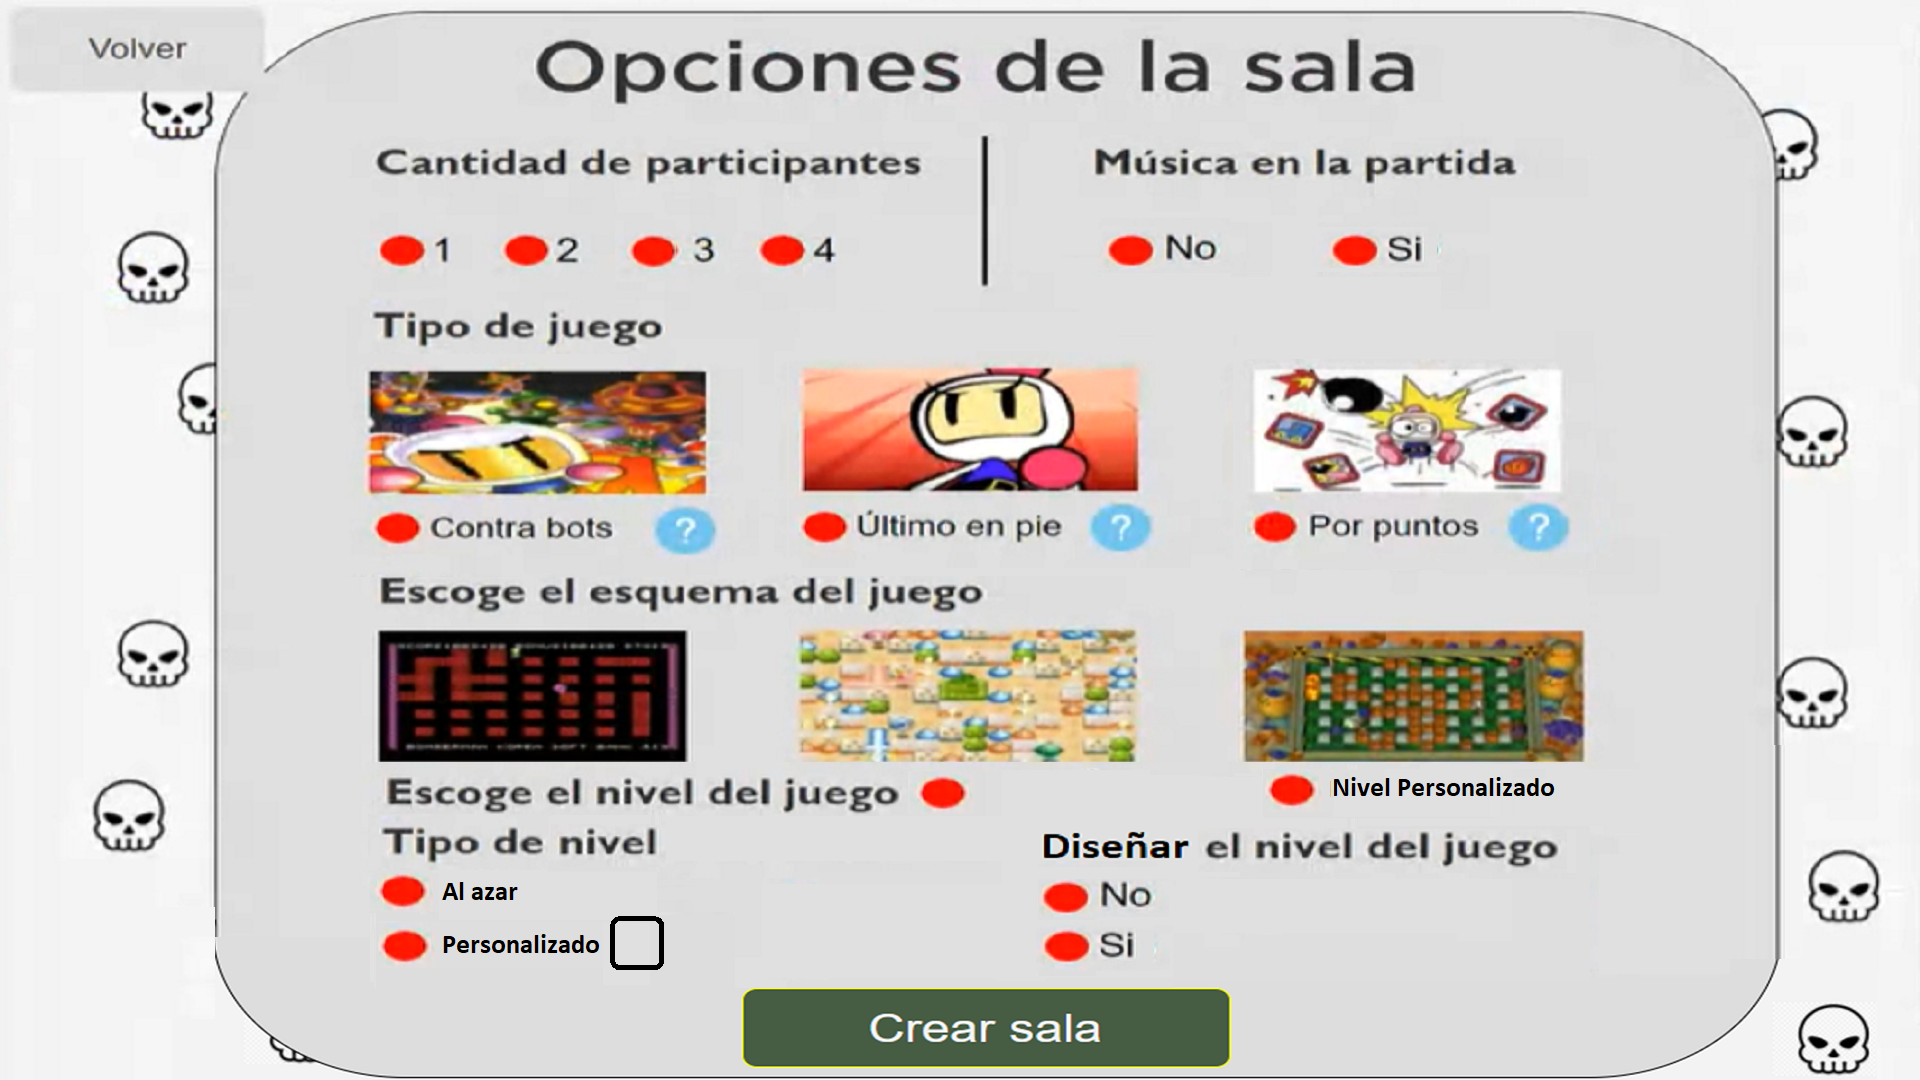
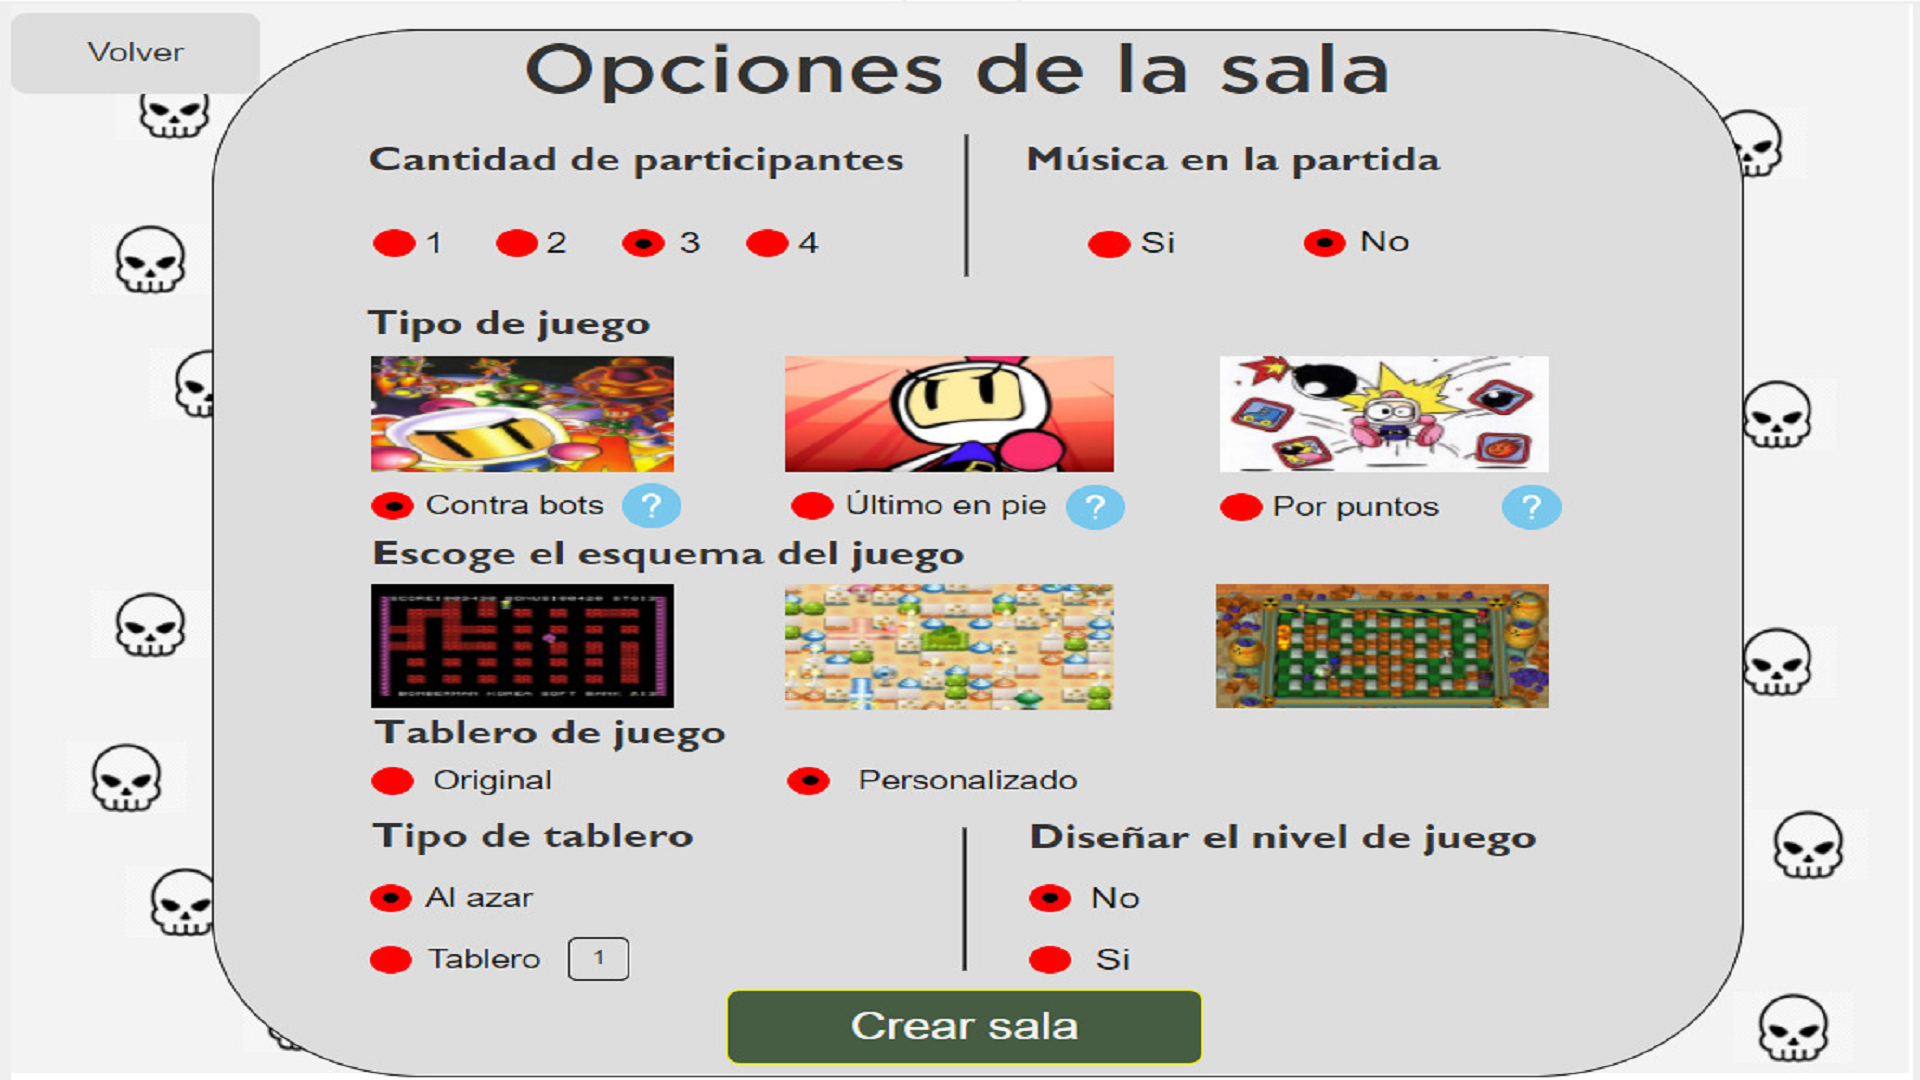
cambios fix sprites

diff --git a/game.html b/game.html
@@ -178,10 +178,11 @@ class Scene1 extends Phaser.Scene {
 
      //INTERNET
 
-/*
+
 
     this.load.image('bg', 'https://i.ibb.co/tz3L9Bn/jugador.png');
    this.load.image('enemigo',  'https://i.ibb.co/tsc83Qn/enemigo.png');
+     this.load.image('enemigoquemado',  'https://i.ibb.co/wcjcPBY/enemigoquemado.png');
    this.load.image('ship',  'https://i.ibb.co/tz3L9Bn/jugador.png');
       this.load.image('ship2',  'https://i.ibb.co/HVtxqyJ/jugador2.png');
          this.load.image('ship3',  'https://i.ibb.co/C7yH7ft/jugador3.png');
@@ -240,12 +241,16 @@ this.load.image('pisor2', 'https://i.ibb.co/BT4bwd5/pisor2.png');
            this.load.image('menupause', 'https://i.ibb.co/YRqsf11/menupause.png');
              this.load.image('menupause2', 'https://i.ibb.co/bHXM7y9/menupause2.png');
           this.load.image('menupause3', 'https://i.ibb.co/p0cq1sK/menupause3.png');
+
+          this.load.image('menupause2end', 'https://i.ibb.co/hWr7ybj/menupause2end.png');
+          this.load.image('menupause3end', 'https://i.ibb.co/PCLGvQh/menupause3end.png');
+
             this.load.image('votacionmenu', 'https://i.ibb.co/3Ycf03R/votacionmenu.png');
 
                 this.load.image('votacionmenu2', 'https://i.ibb.co/swGDZCC/votacionmenu2-P.png');
 
                     this.load.image('votacionmenu3', 'https://i.ibb.co/BqSYKHW/votacionmenu3-P.png');
-   this.load.image('mensajeFinPartida',  'https://i.ibb.co/RyjdBLK/mensaje-Fin-Partida.png');
+   this.load.image('mensajeFinPartida',  'https://i.ibb.co/0MBjWjV/mensaje-Fin-Partida.png');
 
 
              this.load.image('votacionmenuP1', 'https://i.ibb.co/GWbjLYv/votacionmenu-P1.png');
@@ -282,9 +287,9 @@ this.load.image('pisor2', 'https://i.ibb.co/BT4bwd5/pisor2.png');
  this.load.audio('lose', 'https://sndup.net/7j9h/wallFall.mp3');
 
 
-*/
-//LOCAL
 
+//LOCAL
+/*
 
     this.load.image('bg', 'img/jugador.png');
    this.load.image('enemigo',  'img/enemigo.png');
@@ -392,7 +397,7 @@ this.load.image('pisor2', 'img/pisor2.png');
                       this.load.audio('lose', 'snd/theme.mp3');
 
 
-
+*/
 }
 
 create()
@@ -7393,12 +7398,12 @@ class SceneB extends Phaser.Scene {
 
     preload ()
     {
-/*
+
 this.load.image('selectorRect1', 'https://i.ibb.co/tKmGdqY/selector-Rect1.png');
-                 this.load.image('fondo', 'https://i.ibb.co/wJK10k5/menu-Opciones.png');
-                 this.load.image('fondo2', 'https://i.ibb.co/bzWfxnY/menu-Opciones-Normal.png')
-                 this.load.image('fondo2mapa2', 'https://i.ibb.co/9gJ43qZ/menu-Opciones-Normal2.png')
-                 this.load.image('fondo2mapa3', 'https://i.ibb.co/5rWLvSM/menu-Opciones-Normal3.png')
+                 this.load.image('fondo', 'https://i.ibb.co/qMknBSz/menu-Opciones.png');
+                 this.load.image('fondo2', 'https://i.ibb.co/BPVQbSd/menu-Opciones-Normal.png')
+                 this.load.image('fondo2mapa2', 'https://i.ibb.co/VLN7TxS/menu-Opciones-Normal2.png')
+                 this.load.image('fondo2mapa3', 'https://i.ibb.co/6JfxZ6f/menu-Opciones-Normal3.png')
                   this.load.image('seleccion', 'https://i.ibb.co/RvhgWwR/seleccioncuad.png');
                     this.load.image('seleccionpersonajes', 'https://i.ibb.co/7p09ZRh/seleccionpersonajes.png');
                this.load.image('seleccion2', 'https://i.ibb.co/WFCsJx3/seleccioncuad2.png');
@@ -7410,9 +7415,9 @@ this.load.image('selectorRect1', 'https://i.ibb.co/tKmGdqY/selector-Rect1.png');
 
                      this.load.image('popup', 'https://i.ibb.co/58dMc40/popup.png');
                       this.load.image('dificultad',  'https://i.ibb.co/gzHYX8F/dificultad.png');
-*/
 
 
+/*
             this.load.image('selectorRect1', 'img/selectorRect1.png');
                  this.load.image('fondo', 'img/menuOpciones.png');
                  this.load.image('fondo2', 'img/menuOpcionesNormal.png')
@@ -7431,7 +7436,7 @@ this.load.image('selectorRect1', 'https://i.ibb.co/tKmGdqY/selector-Rect1.png');
                
               this.load.image('dificultad',  'img/dificultad.png');
 
-
+*/
     }
     create()
     {
@@ -8134,9 +8139,9 @@ if(this.seleccionInt ==24)
         this.jugadores =4;
 
     if(this.seleccionInt ==6)
-        this.music =0;
-    if(this.seleccionInt ==7)
         this.music =1;
+    if(this.seleccionInt ==7)
+        this.music =0;
      if(this.seleccionInt ==8)
         {
              this.seleccionInt =9;
@@ -8911,9 +8916,9 @@ if(this.seleccionInt ==24)
         this.jugadores =4;
 
     if(this.seleccionInt ==6)
-        this.music =0;
-    if(this.seleccionInt ==7)
         this.music =1;
+    if(this.seleccionInt ==7)
+        this.music =0;
      if(this.seleccionInt ==8)
         {
              this.seleccionInt =9;
@@ -9037,36 +9042,36 @@ cursor = "XD";
 
 if(this.gamemode == 0)
 {
-this.tipojuegoSprite.x = 313 +413/4;
-this.tipojuegoSprite.y = 536;
+this.tipojuegoSprite.x = 293 +413/4;
+this.tipojuegoSprite.y = 516;
 }
 
 if(this.gamemode == 1)
 {
-this.tipojuegoSprite.x = 313 +513;
-this.tipojuegoSprite.y = 536;
+this.tipojuegoSprite.x = 293 +513;
+this.tipojuegoSprite.y = 516;
 }
 
 if(this.gamemode == 2)
 {
 this.tipojuegoSprite.x = 353 +913;
-this.tipojuegoSprite.y = 536;
+this.tipojuegoSprite.y = 516;
 }
 
 if(this.tematica ==1)
 {
 this.tematicaSprite.x =  420 +413/4;
-this.tematicaSprite.y = 132 + 550;
+this.tematicaSprite.y = 132 + 520;
 }
 if(this.tematica ==2)
 {
-  this.tematicaSprite.x = 880 +413/4;
-this.tematicaSprite.y = 132 + 550;
+  this.tematicaSprite.x = 860 +413/4;
+this.tematicaSprite.y = 132 + 520;
 }
 if(this.tematica ==3)
 {
-  this.tematicaSprite.x = 1320 +413/4; 
-this.tematicaSprite.y = 132 + 550; 
+  this.tematicaSprite.x = 1290 +413/4; 
+this.tematicaSprite.y = 132 + 520; 
 }
 
 if(this.jugadores == 1)
@@ -9089,25 +9094,18 @@ if(this.jugadores == 4)
 this.cantidadParticipantesSprite.x = 773;
 this.cantidadParticipantesSprite.y = 236;
 }
-if(this.music == 0)
-{
-
-this.musicapartidaSprite.x = 1033 +413/4;
-this.musicapartidaSprite.y = 256;
-}
-
 if(this.music == 1)
 {
-this.musicapartidaSprite.x = 1253 +413/4;
+
+this.musicapartidaSprite.x = 1003 +413/4;
 this.musicapartidaSprite.y = 256;
 }
-if(this.seleccionInt ==0)
+
+if(this.music == 0)
 {
-
-this.seleccionadoSprite.x = 313 +413/4;
-this.seleccionadoSprite.y = 536;
-
-}    
+this.musicapartidaSprite.x = 1223 +413/4;
+this.musicapartidaSprite.y = 256;
+}
 
 if(this.seleccionInt ==3)
 {
@@ -9140,25 +9138,34 @@ this.seleccionadoSprite.y = 236;
 
 }
 
+if(this.seleccionInt ==0)
+{
+
+this.seleccionadoSprite.x = 293 +413/4;
+this.seleccionadoSprite.y = 516;
+
+}    
+
+
 if(this.seleccionInt ==1)
 {
 
-this.seleccionadoSprite.x = 313 +513;
-this.seleccionadoSprite.y = 536;
+this.seleccionadoSprite.x = 293 +513;
+this.seleccionadoSprite.y = 516;
 
 }  
 if(this.seleccionInt ==2)
 {
 
-this.seleccionadoSprite.x = 353 +913;
-this.seleccionadoSprite.y = 536;
+this.seleccionadoSprite.x = 323 +913;
+this.seleccionadoSprite.y = 516;
 
 }     
 
 if(this.seleccionInt ==6)
 {
 
-this.seleccionadoSprite.x = 1033 +413/4;
+this.seleccionadoSprite.x = 1003 +413/4;
 this.seleccionadoSprite.y = 256;
 
 }
@@ -9166,7 +9173,7 @@ this.seleccionadoSprite.y = 256;
 if(this.seleccionInt ==7)
 {
 
-this.seleccionadoSprite.x = 1253 +413/4;
+this.seleccionadoSprite.x = 1223 +413/4;
 this.seleccionadoSprite.y = 256;
 
 }
@@ -9312,31 +9319,31 @@ if(this.seleccionInt ==19)
 if(this.seleccionInt ==20)
 {
   this.seleccionadoSprite.x = 420 +413/4;
-  this.seleccionadoSprite.y = 132 + 550;
+  this.seleccionadoSprite.y = 132 + 520;
 
 }
 if(this.seleccionInt ==21)
 {
-  this.seleccionadoSprite.x = 880 +413/4;
-  this.seleccionadoSprite.y = 132 + 550;
+  this.seleccionadoSprite.x = 860 +413/4;
+  this.seleccionadoSprite.y = 132 + 520;
 }
 
 if(this.seleccionInt ==22)
 {
-  this.seleccionadoSprite.x = 1320 +413/4;
-  this.seleccionadoSprite.y = 132 + 550;
+  this.seleccionadoSprite.x = 1290 +413/4;
+  this.seleccionadoSprite.y = 132 + 520;
 }
 //SELECCIONAR MODO DIBUJO
 
 if(this.seleccionInt ==30)
 {
-  this.seleccionadoSprite.x = 937;
-  this.seleccionadoSprite.y = 800;
+  this.seleccionadoSprite.x = 387;
+  this.seleccionadoSprite.y = 780;
 }
 if(this.seleccionInt ==31)
 {
-  this.seleccionadoSprite.x = 1285;
-  this.seleccionadoSprite.y = 800;
+  this.seleccionadoSprite.x = 805;
+  this.seleccionadoSprite.y = 780;
 }
 //DIF
 if(this.seleccionInt ==32)
@@ -9358,13 +9365,13 @@ if(this.seleccionInt ==34)
 
 if(this.modoopciones ==1)
 {
-  this.modoopcionesSprite.x = 937;
-  this.modoopcionesSprite.y = 800;
+  this.modoopcionesSprite.x = 387;
+  this.modoopcionesSprite.y = 780;
 }
 if(this.modoopciones ==2)
 {
-  this.modoopcionesSprite.x = 1285;
-  this.modoopcionesSprite.y = 800;
+  this.modoopcionesSprite.x = 805;
+  this.modoopcionesSprite.y = 780;
 }
 
 //SELECCION MAPA DEFINIDO
@@ -9423,45 +9430,45 @@ if(this.mapaNormalNumero ==3)
 
 if(this.mapaTipo ==1)
 {
-  this.mapatipoSprite.x = 310 +413/4;
+  this.mapatipoSprite.x = 290 +413/4;
   this.mapatipoSprite.y = 352 + 550;
 }
 if(this.seleccionInt ==23)
 {
-  this.seleccionadoSprite.x = 310 +413/4;
+  this.seleccionadoSprite.x = 290 +413/4;
   this.seleccionadoSprite.y = 352 + 550;
 
 }
 if(this.mapaTipo ==2)
 {
-  this.mapatipoSprite.x = 310 +413/4;
+  this.mapatipoSprite.x = 290 +413/4;
   this.mapatipoSprite.y = 406 + 550;
 }
 if(this.seleccionInt ==24)
 {
-  this.seleccionadoSprite.x = 970 +413/4;
+  this.seleccionadoSprite.x = 950 +413/4;
   this.seleccionadoSprite.y = 352 + 550;
 
 }
 if(this.designerMode==0)
 {
-   this.designerSprite.x = 970 +413/4;
+   this.designerSprite.x = 950 +413/4;
   this.designerSprite.y = 352 + 550;
 }
 if(this.seleccionInt ==25)
 {
-  this.seleccionadoSprite.x = 310 +413/4;
+  this.seleccionadoSprite.x = 290 +413/4;
   this.seleccionadoSprite.y = 406 + 550;
 
 }
 if(this.designerMode==1)
 {
-  this.designerSprite.x = 970 +413/4;
+  this.designerSprite.x = 950 +413/4;
   this.designerSprite.y = 406 + 550;
 }
 if(this.seleccionInt ==26)
 {
-  this.seleccionadoSprite.x = 970 +413/4;
+  this.seleccionadoSprite.x = 950 +413/4;
   this.seleccionadoSprite.y = 406 + 550;
 
 }
